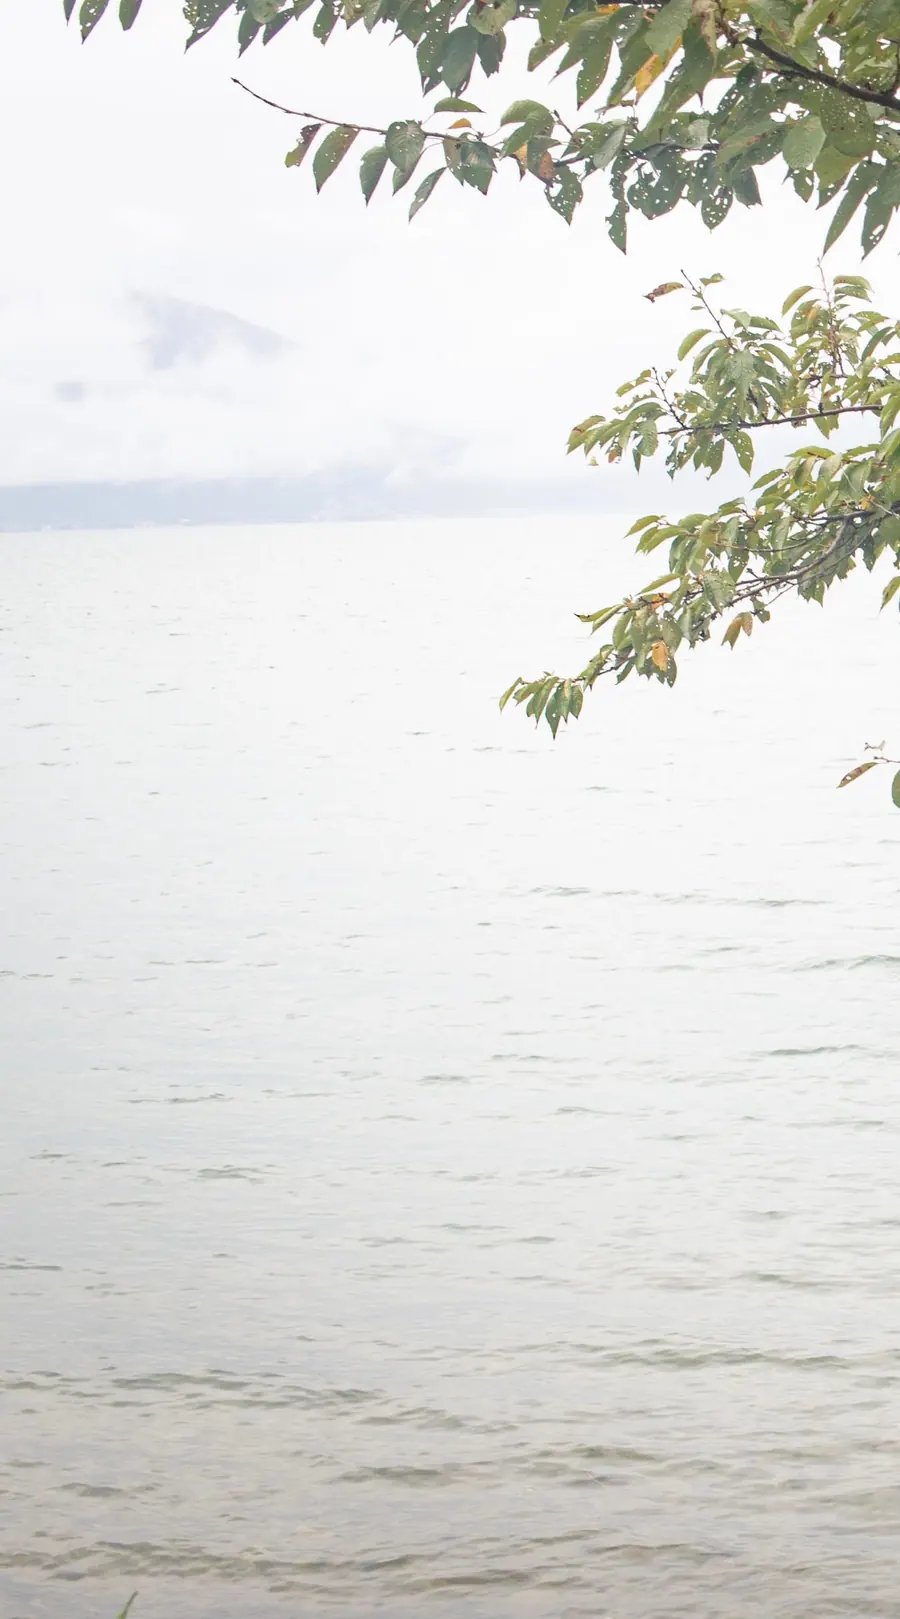
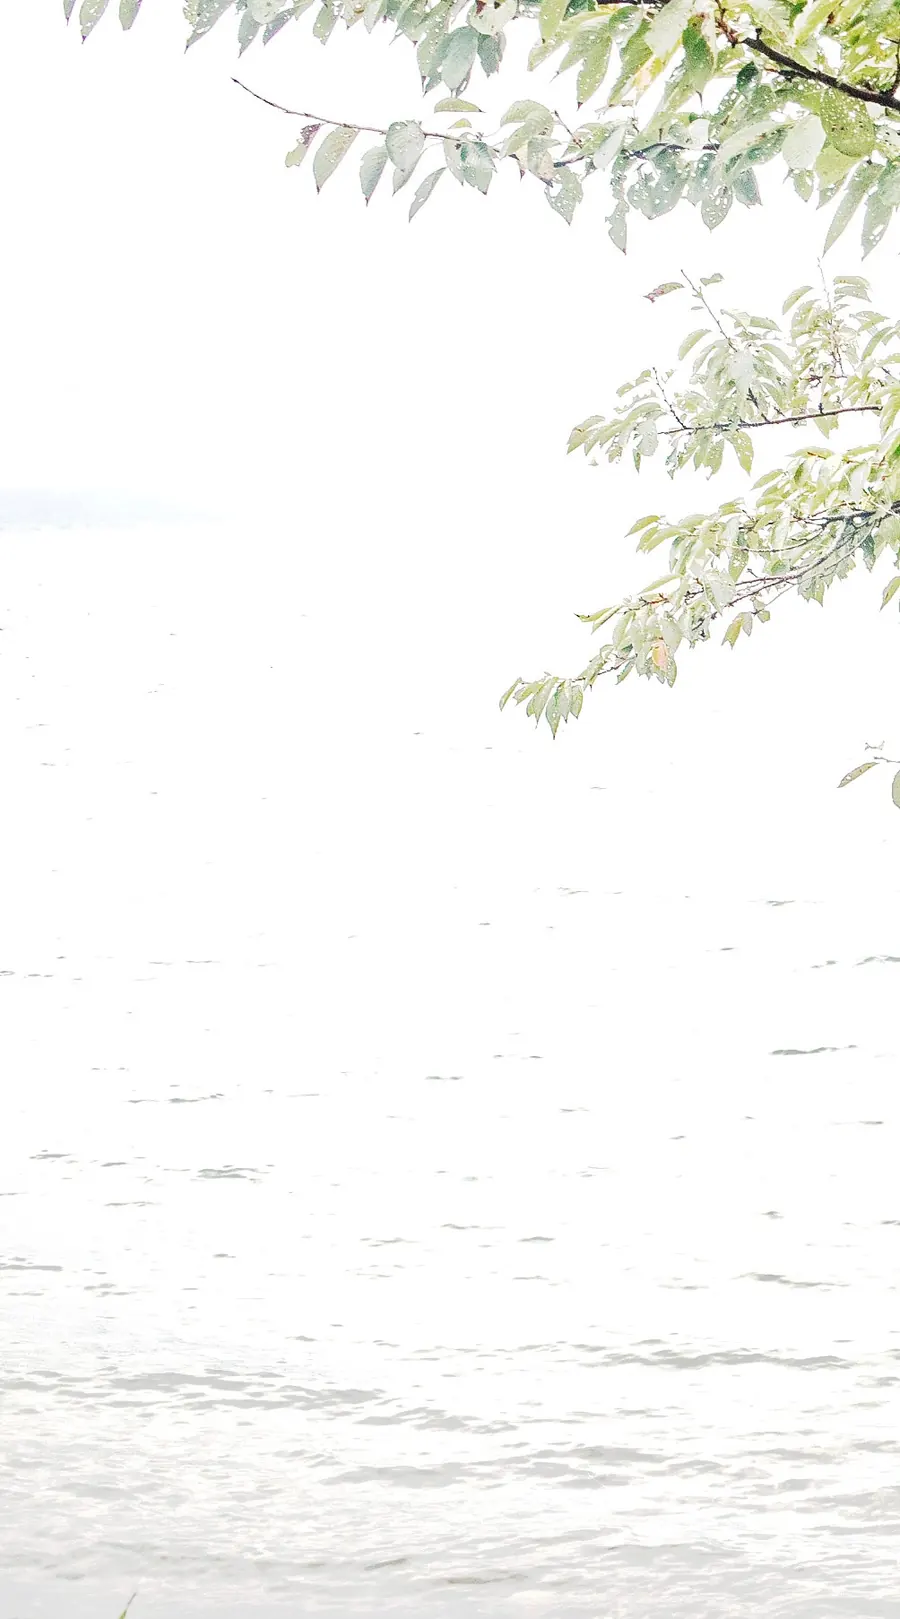
Make day backgrounds paper white and replace coast image

diff --git a/style.css b/style.css
@@ -344,8 +344,9 @@ input[type="file"]:not(:disabled)::file-selector-button:hover {background: var(-
   --line: #858e89;
   --accent: #29453f;
   --mist: #f2f4f3;
-  --sea: #c6d1cd;
-  --shore: #a8b8b1;
+  --map-paper: #fff;
+  --sea: #e5ebe8;
+  --shore: #d4ded8;
   --island: #788b81;
   --route: #4b6258;
   --warm: #465e52;
@@ -354,25 +355,29 @@ input[type="file"]:not(:disabled)::file-selector-button:hover {background: var(-
   --control-hover: #ced7d2;
   --day-edge-size: max(100%, 600px) auto;
 }
-[data-theme="day"] body {background: #fff}
+[data-theme="day"] body {position: relative; background: #fff}
 [data-theme="day"] body::before,
 [data-theme="day"] body::after {
-  inset: auto -5px;
-  height: clamp(110px, 22vh, 205px);
-  filter: blur(2.5px) saturate(.50);
-  background-image: var(--background-grain), url("./coast-day.webp");
+  position: absolute;
+  inset: auto 0;
+  height: clamp(110px, 19vh, 185px);
+  /* Clip the photographed highlights back to white after applying edge grain. */
+  filter: blur(2.5px) saturate(.50) brightness(var(--day-edge-light)) contrast(1.12);
+  background-image: var(--background-grain), url("./coast-day.webp?v=paper-white-photo");
   background-size: 144px 144px, var(--day-edge-size);
   background-repeat: repeat, no-repeat;
   background-blend-mode: soft-light, normal;
 }
 [data-theme="day"] body::before {
-  top: -5px;
+  --day-edge-light: 1.07;
+  top: 0;
   background-position: center, right top;
   mask-image: linear-gradient(to bottom, #000 0%, #000 12%, transparent 96%);
   opacity: .20;
 }
 [data-theme="day"] body::after {
-  bottom: -5px;
+  --day-edge-light: 1.055;
+  bottom: 0;
   background-position: center, center bottom;
   mask-image: linear-gradient(to top, #000 0%, #000 12%, transparent 96%);
   opacity: .28;

diff --git a/journey.js b/journey.js
@@ -48,7 +48,7 @@
   function landscape(ctx, width, height, tones) {
     ctx.save();
     ctx.scale(width / 960, height / 330);
-    ctx.fillStyle = tones.mist;
+    ctx.fillStyle = tones["map-paper"] || tones.mist;
     ctx.fillRect(0, 0, 960, 330);
 
     // A distant island and flat bands of sea and sand leave room for the route.
@@ -68,7 +68,7 @@
     mounts.get(container)?.destroy();
     const theme = getComputedStyle(container);
     const tones = {};
-    for (const name of ["mist", "sun", "island", "sea", "shore", "route", "warm", "accent"]) {
+    for (const name of ["map-paper", "mist", "sun", "island", "sea", "shore", "route", "warm", "accent"]) {
       tones[name] = theme.getPropertyValue("--" + name).trim();
     }
     const records = Array.isArray(entries) ? entries : [];

diff --git a/index.html b/index.html
@@ -13,14 +13,14 @@
       }
     } catch {}
   </script>
-  <link rel="stylesheet" href="./style.css?v=day-night">
+  <link rel="stylesheet" href="./style.css?v=paper-white">
   <link rel="stylesheet" href="./journey.css?v=quiet-byline">
   <link rel="stylesheet" href="./photos.css">
   <script src="./share-data.js?v=clean-titles"></script>
 
 
   <script defer src="./photos.js"></script>
-  <script defer src="./journey.js?v=drag-next-day"></script>
+  <script defer src="./journey.js?v=paper-white"></script>
   <script defer src="./app.js?v=day-night"></script>
 </head>
 <body>
